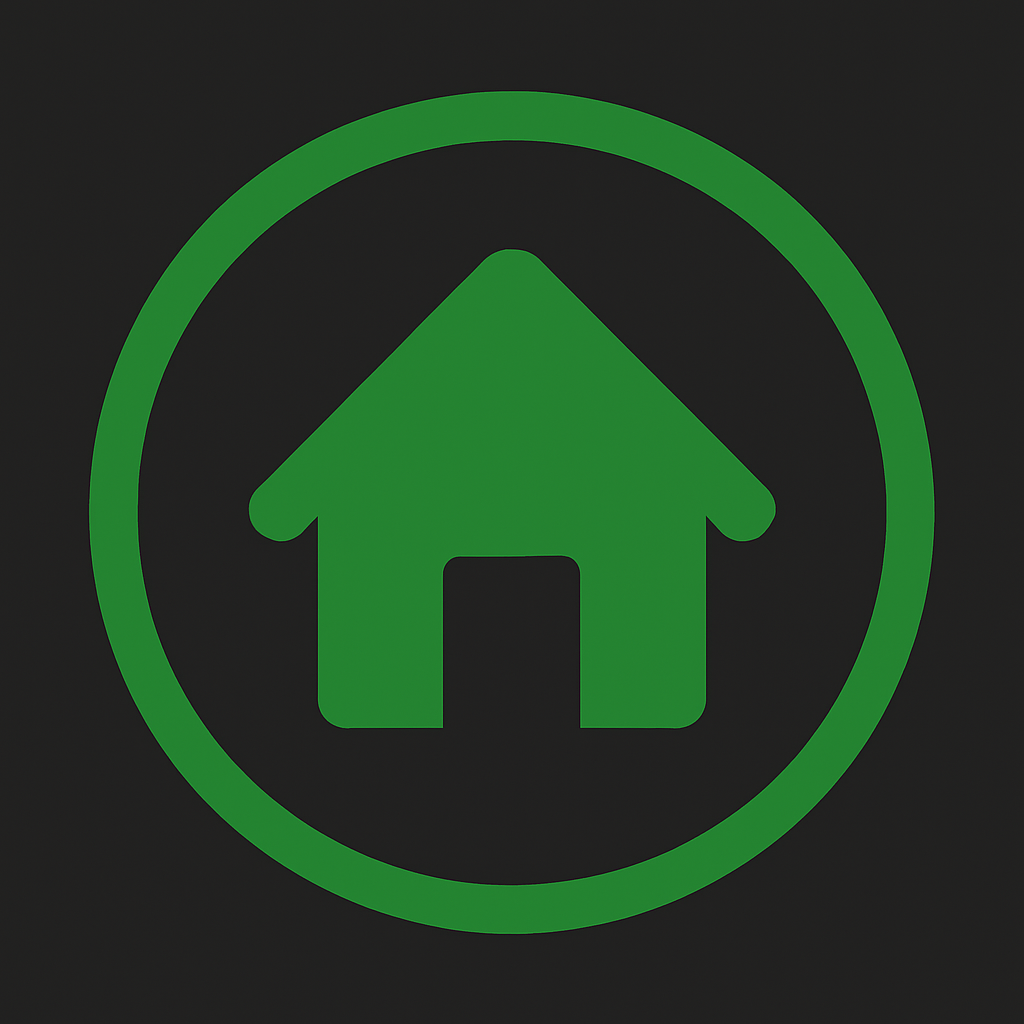
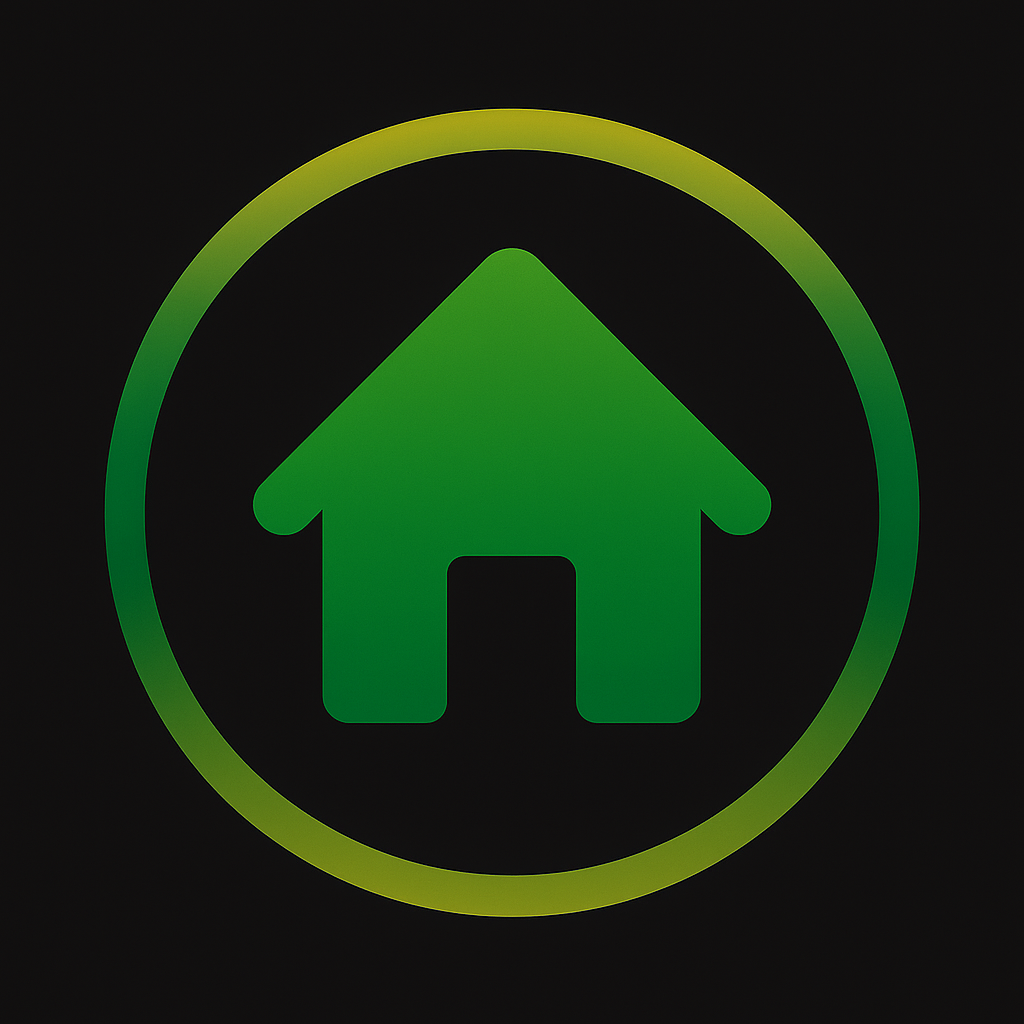
UI: nowe ikony i odświeżony UsersPanel + TopBar

diff --git a/src/main/kotlin/ui/UsersPanel.kt b/src/main/kotlin/ui/UsersPanel.kt
@@ -2,9 +2,16 @@ package ui
 
 import db.UserDao
 import java.awt.*
+import java.awt.event.KeyAdapter
+import java.awt.event.KeyEvent
+import java.awt.event.MouseAdapter
+import java.awt.event.MouseEvent
 import java.time.format.DateTimeFormatter
+import javax.imageio.ImageIO
 import javax.swing.*
 import javax.swing.border.EmptyBorder
+import javax.swing.event.DocumentEvent
+import javax.swing.event.DocumentListener
 import javax.swing.table.DefaultTableCellRenderer
 import javax.swing.table.DefaultTableModel
 
@@ -12,6 +19,7 @@ class UsersPanel : JPanel(BorderLayout()) {
 
     private val formatter = DateTimeFormatter.ofPattern("yyyy-MM-dd HH:mm")
 
+    // ===== MODEL =====
     private val model = object : DefaultTableModel(
         arrayOf("ID", "Login", "Rola", "Aktywny", "Utworzony", "Ostatnie logowanie"), 0
     ) {
@@ -23,6 +31,7 @@ class UsersPanel : JPanel(BorderLayout()) {
         }
     }
 
+    // ===== TABELA =====
     private val table = JTable(model).apply {
         autoCreateRowSorter = true
         rowHeight = 30
@@ -30,27 +39,53 @@ class UsersPanel : JPanel(BorderLayout()) {
         showVerticalLines = false
         showHorizontalLines = true
         intercellSpacing = Dimension(0, 1)
+        selectionModel.selectionMode = ListSelectionModel.SINGLE_SELECTION
     }
+
+    // ===== WYSZUKIWARKA + PRZYCISKI (ikony) =====
+    private val searchField = JTextField().apply {
+        preferredSize = Dimension(260, 34)
+        background = Theme.panel
+        foreground = Theme.textPrimary
+        caretColor = Theme.textPrimary
+        border = EmptyBorder(8, 10, 8, 10)
+        toolTipText = "Szukaj po loginie lub roli (Enter)"
+    }
+
+    private val searchBtn = iconButton("/search.png", "Szukaj") {
+        refresh(searchField.text.trim())
+    }
+
+    private val addBtn = iconButton("/add.png", "Dodaj użytkownika") {
+        // TODO: otwórz dialog „Dodaj użytkownika”
+        JOptionPane.showMessageDialog(this@UsersPanel, "TODO: Dodaj użytkownika")
+    }
+
+    private val editBtn = iconButton("/edit.png", "Edytuj użytkownika") {
+        val id = selectedUserId() ?: return@iconButton
+        // TODO: otwórz dialog „Edytuj użytkownika”
+        JOptionPane.showMessageDialog(this@UsersPanel, "TODO: Edytuj użytkownika ID=$id")
+    }.apply { isEnabled = false }
+
+    private val delBtn = iconButton("/delete.png", "Usuń użytkownika") {
+        val id = selectedUserId() ?: return@iconButton
+        // TODO: potwierdzenie i usunięcie
+        JOptionPane.showMessageDialog(this@UsersPanel, "TODO: Usuń użytkownika ID=$id")
+    }.apply { isEnabled = false }
 
     init {
         background = Theme.bg
         border = EmptyBorder(16, 16, 16, 16)
+
+        // Styl ciemny tabeli + paskowanie
         Theme.styleTable(table)
 
-        val colModel = table.columnModel
-        colModel.getColumn(0).preferredWidth = 50
-        colModel.getColumn(1).preferredWidth = 180
-        colModel.getColumn(2).preferredWidth = 120
-        colModel.getColumn(3).preferredWidth = 90
-        colModel.getColumn(4).preferredWidth = 180
-        colModel.getColumn(5).preferredWidth = 200
-
+        // Renderery kolumn
         val centerRenderer = DefaultTableCellRenderer().apply {
             horizontalAlignment = SwingConstants.CENTER
             foreground = Theme.textPrimary
             background = Theme.panel
         }
-
         val boolRenderer = object : DefaultTableCellRenderer() {
             override fun getTableCellRendererComponent(
                 table: JTable, value: Any?, isSelected: Boolean,
@@ -64,7 +99,6 @@ class UsersPanel : JPanel(BorderLayout()) {
                 return label
             }
         }
-
         val dateRenderer = object : DefaultTableCellRenderer() {
             override fun getTableCellRendererComponent(
                 table: JTable, value: Any?, isSelected: Boolean,
@@ -77,26 +111,91 @@ class UsersPanel : JPanel(BorderLayout()) {
             }
         }
 
-        colModel.getColumn(0).cellRenderer = centerRenderer
-        colModel.getColumn(3).cellRenderer = boolRenderer
-        colModel.getColumn(4).cellRenderer = dateRenderer
-        colModel.getColumn(5).cellRenderer = dateRenderer
+        val cols = table.columnModel
+        cols.getColumn(0).preferredWidth = 60
+        cols.getColumn(1).preferredWidth = 220
+        cols.getColumn(2).preferredWidth = 120
+        cols.getColumn(3).preferredWidth = 90
+        cols.getColumn(4).preferredWidth = 180
+        cols.getColumn(5).preferredWidth = 200
 
+        cols.getColumn(0).cellRenderer = centerRenderer
+        cols.getColumn(3).cellRenderer = boolRenderer
+        cols.getColumn(4).cellRenderer = dateRenderer
+        cols.getColumn(5).cellRenderer = dateRenderer
+
+        // Scroll
         val scroll = JScrollPane(table).apply {
             border = BorderFactory.createEmptyBorder()
             background = Theme.bg
             viewport.background = Theme.bg
         }
 
-        add(scroll, BorderLayout.CENTER)
-        preferredSize = Dimension(950, 520)
+        // Górny toolbar
+        val toolbar = JPanel(BorderLayout()).apply {
+            background = Theme.panel
+            border = EmptyBorder(12, 12, 12, 12)
 
-        loadData()
+            val left = JPanel(FlowLayout(FlowLayout.LEFT, 8, 0)).apply {
+                isOpaque = false
+                add(JLabel("Szukaj:").apply {
+                    foreground = Theme.textSecondary
+                    font = font.deriveFont(Font.PLAIN, 13f)
+                })
+                add(searchField)
+                add(searchBtn)
+            }
+            val right = JPanel(FlowLayout(FlowLayout.RIGHT, 8, 0)).apply {
+                isOpaque = false
+                add(addBtn)
+                add(editBtn)
+                add(delBtn)
+            }
+
+            add(left, BorderLayout.WEST)
+            add(right, BorderLayout.EAST)
+        }
+
+        add(toolbar, BorderLayout.NORTH)
+        add(scroll, BorderLayout.CENTER)
+        preferredSize = Dimension(1000, 560)
+
+        // Zdarzenia
+        hookEvents()
+
+        // Pierwsze ładowanie
+        refresh()
     }
 
-    private fun loadData() {
+    // ====== Helpery GUI ======
+
+    private fun hookEvents() {
+        // Enter w polu szukania
+        searchField.addKeyListener(object : KeyAdapter() {
+            override fun keyPressed(e: KeyEvent) {
+                if (e.keyCode == KeyEvent.VK_ENTER) refresh(searchField.text.trim())
+            }
+        })
+        // Live search (delikatne opóźnienie)
+        val timer = Timer(220) { refresh(searchField.text.trim()) }
+        timer.isRepeats = false
+        searchField.document.addDocumentListener(object : DocumentListener {
+            override fun insertUpdate(e: DocumentEvent) = timer.restart()
+            override fun removeUpdate(e: DocumentEvent) = timer.restart()
+            override fun changedUpdate(e: DocumentEvent) = timer.restart()
+        })
+
+        // Aktywacja Edytuj/Usuń po zaznaczeniu
+        table.selectionModel.addListSelectionListener {
+            val hasSel = table.selectedRow >= 0
+            editBtn.isEnabled = hasSel
+            delBtn.isEnabled = hasSel
+        }
+    }
+
+    private fun refresh(search: String? = null) {
         model.rowCount = 0
-        val users = UserDao.getAll()
+        val users = UserDao.getAll(search = search)
         users.forEach { u ->
             model.addRow(
                 arrayOf(
@@ -108,6 +207,47 @@ class UsersPanel : JPanel(BorderLayout()) {
                     u.lastLogin?.format(formatter) ?: "—"
                 )
             )
+        }
+        if (table.rowCount > 0) table.setRowSelectionInterval(0, 0)
+    }
+
+    private fun selectedUserId(): Long? {
+        val viewIdx = table.selectedRow
+        if (viewIdx < 0) return null
+        val modelIdx = table.convertRowIndexToModel(viewIdx)
+        val idVal = model.getValueAt(modelIdx, 0)
+        return (idVal as? Number)?.toLong()
+    }
+
+    /** Tworzy spójny graficzny przycisk z ikoną z /resources (PNG). */
+    private fun iconButton(path: String, tooltip: String, onClick: () -> Unit): JButton {
+        val icon = loadIcon(path, 28, 28)
+        return if (icon != null) {
+            JButton(icon)
+        } else {
+            JButton(tooltip) // awaryjnie, gdyby zasobu brakło
+        }.apply {
+            background = Theme.panel
+            foreground = Theme.textPrimary
+            border = EmptyBorder(6, 10, 6, 10)
+            toolTipText = tooltip
+            cursor = Cursor.getPredefinedCursor(Cursor.HAND_CURSOR)
+            addActionListener { onClick() }
+            addMouseListener(object : MouseAdapter() {
+                override fun mouseEntered(e: MouseEvent) { background = Color(40, 40, 40) }
+                override fun mouseExited(e: MouseEvent) { background = Theme.panel }
+            })
+        }
+    }
+
+    private fun loadIcon(path: String, w: Int, h: Int): Icon? {
+        return try {
+            val stream = javaClass.getResourceAsStream(path) ?: return null
+            val img = ImageIO.read(stream)
+            val scaled = img.getScaledInstance(w, h, Image.SCALE_SMOOTH)
+            ImageIcon(scaled)
+        } catch (_: Exception) {
+            null
         }
     }
 }

diff --git a/src/main/kotlin/ui/TopBar.kt b/src/main/kotlin/ui/TopBar.kt
@@ -15,8 +15,9 @@ class TopBar(
 ) : JPanel(BorderLayout()) {
 
     private val barHeight = 56
-    private val iconSize = 48
-    private val iconPad = 3
+    private val iconSize = 44
+    private val iconPad = 6
+    private val accentGreen = Color(0, 205, 0)
 
     init {
         isOpaque = true
@@ -27,7 +28,6 @@ class TopBar(
             isOpaque = false
             alignmentY = Component.CENTER_ALIGNMENT
         }
-
         val right = JPanel(FlowLayout(FlowLayout.RIGHT, 10, 0)).apply {
             isOpaque = false
             alignmentY = Component.CENTER_ALIGNMENT
@@ -38,15 +38,12 @@ class TopBar(
             left.add(iconButton(it, "Strona główna") { onHome() })
         }
 
-        // --- Prawa strona ---
+        // --- Username + Ikony po prawej ---
         right.add(JLabel(username).apply {
-            foreground = Theme.accent
+            foreground = accentGreen
             font = font.deriveFont(Font.BOLD, 16f)
             isOpaque = false
             toolTipText = "Zalogowano jako $username"
-            horizontalAlignment = SwingConstants.CENTER
-            verticalAlignment = SwingConstants.CENTER
-            preferredSize = Dimension(preferredSize.width, iconSize + iconPad * 2)
         })
 
         loadIconScaled("/user.png", iconSize, iconSize)?.let {
@@ -66,52 +63,25 @@ class TopBar(
 
     private fun iconButton(icon: Icon, tooltip: String, onClick: () -> Unit): JLabel =
         JLabel(icon).apply {
-            isOpaque = false
+            isOpaque = true
+            background = Theme.panel
             toolTipText = tooltip
             cursor = Cursor.getPredefinedCursor(Cursor.HAND_CURSOR)
             border = EmptyBorder(iconPad, iconPad, iconPad, iconPad)
             val side = iconSize + iconPad * 2
             preferredSize = Dimension(side, side)
-            minimumSize = preferredSize
-            maximumSize = preferredSize
             horizontalAlignment = SwingConstants.CENTER
             verticalAlignment = SwingConstants.CENTER
             alignmentY = Component.CENTER_ALIGNMENT
 
+            val hoverColor = Color(40, 40, 40)
             addMouseListener(object : MouseAdapter() {
                 override fun mouseEntered(e: MouseEvent) {
-                    border = javax.swing.border.CompoundBorder(
-                        javax.swing.border.LineBorder(Theme.accent, 2, true),
-                        EmptyBorder(iconPad - 1, iconPad - 1, iconPad - 1, iconPad - 1)
-                    )
-                    isOpaque = true
-                    background = Theme.selection
-                    repaint()
+                    background = hoverColor
                 }
 
                 override fun mouseExited(e: MouseEvent) {
-                    border = EmptyBorder(iconPad, iconPad, iconPad, iconPad)
-                    isOpaque = false
-                    background = Color(0, 0, 0, 0)
-                    repaint()
-                }
-
-                override fun mousePressed(e: MouseEvent) {
-                    background = Theme.selection.darker()
-                    isOpaque = true
-                    repaint()
-                }
-
-                override fun mouseReleased(e: MouseEvent) {
-                    if (contains(e.point)) {
-                        background = Theme.selection
-                        isOpaque = true
-                    } else {
-                        isOpaque = false
-                        background = Color(0, 0, 0, 0)
-                        border = EmptyBorder(iconPad, iconPad, iconPad, iconPad)
-                    }
-                    repaint()
+                    background = Theme.panel
                 }
 
                 override fun mouseClicked(e: MouseEvent) {
